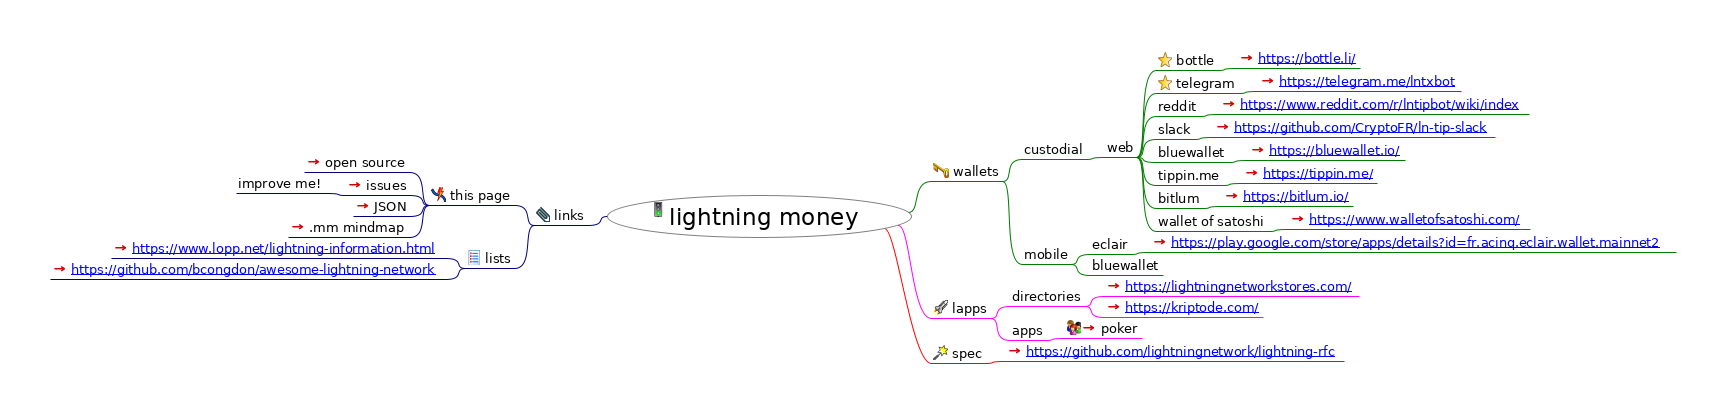
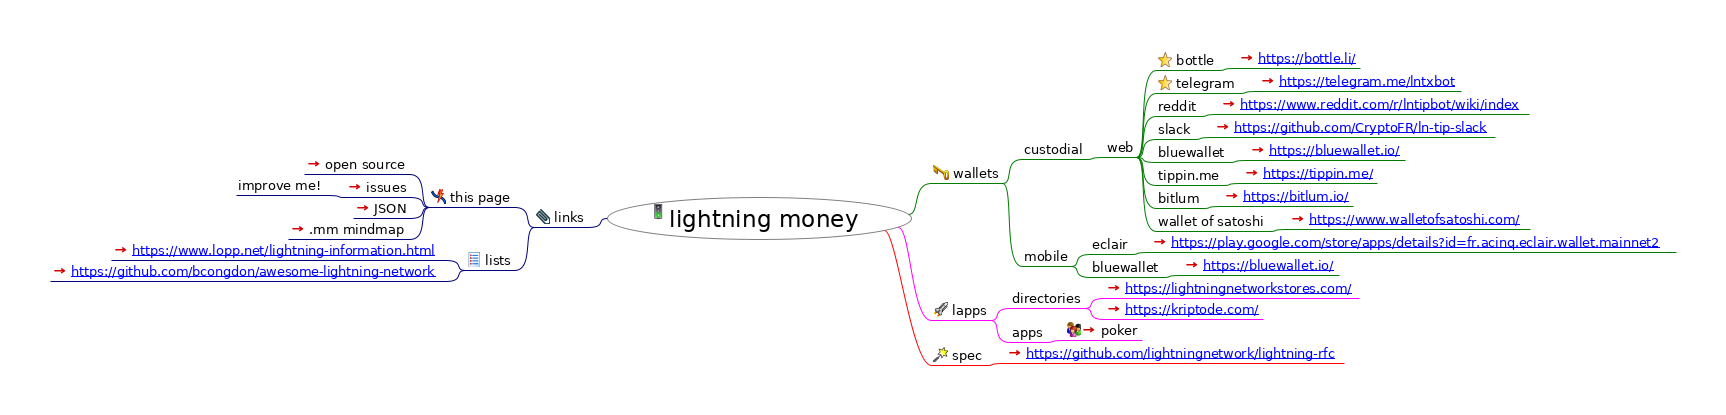
DEFAULT_MESSAGE

Changed region(s): [[0.522, 0.1162, 0.9826, 0.9007], [0.0307, 0.3777, 0.522, 0.6973], [0.522, 0.4068, 0.5834, 0.4649]]

diff --git a/index.html b/index.html
@@ -23,8 +23,8 @@
                    };
                };
           
-          --></script></head><body><h1>lightning money</h1><div style="width:96%;  padding:2%;  margin-bottom:10px;  border: 0px;  text-align:center;  vertical-align:center;"><img src="index.html_files/image.png" style="margin-bottom:10px; &#9;border: 0px; &#9;text-align:center; &#9;vertical-align:center;" alt="Imagemap" usemap="#fm_imagemap" /></div><map name="fm_imagemap" id="fm_imagemap"><area shape="rect" href="#FMID_1568754813FM" alt="lightning money" title="lightning money" coords="607,195,912,238" />
-<area shape="rect" href="#FMID_403237537FM" alt="wallets" title="wallets" coords="931,163,1003,181" />
+          --></script></head><body><h1>lightning money</h1><div style="width:96%;  padding:2%;  margin-bottom:10px;  border: 0px;  text-align:center;  vertical-align:center;"><img src="index.html_files/image.png" style="margin-bottom:10px; &#9;border: 0px; &#9;text-align:center; &#9;vertical-align:center;" alt="Imagemap" usemap="#fm_imagemap" /></div><map name="fm_imagemap" id="fm_imagemap"><area shape="rect" href="#FMID_1568754813FM" alt="lightning money" title="lightning money" coords="607,197,912,240" />
+<area shape="rect" href="#FMID_403237537FM" alt="wallets" title="wallets" coords="931,165,1003,183" />
 <area shape="rect" href="#FMID_713142011FM" alt="custodial" title="custodial" coords="1022,141,1086,159" />
 <area shape="rect" href="#FMID_1071283894FM" alt="web" title="web" coords="1105,139,1137,157" />
 <area shape="rect" href="#FMID_432921303FM" alt="bottle" title="bottle" coords="1156,52,1218,70" />
@@ -43,28 +43,29 @@
 <area shape="rect" href="#FMID_897640905FM" alt="https://bitlum.io/" title="https://bitlum.io/" coords="1222,188,1353,206" />
 <area shape="rect" href="#FMID_1242085439FM" alt="wallet of satoshi" title="wallet of satoshi" coords="1156,213,1269,231" />
 <area shape="rect" href="#FMID_307350684FM" alt="https://www.walletofsatoshi.com/" title="https://www.walletofsatoshi.com/" coords="1288,211,1530,229" />
-<area shape="rect" href="#FMID_129906959FM" alt="mobile" title="mobile" coords="1022,246,1071,264" />
+<area shape="rect" href="#FMID_129906959FM" alt="mobile" title="mobile" coords="1022,248,1071,266" />
 <area shape="rect" href="#FMID_1897401807FM" alt="eclair" title="eclair" coords="1090,236,1131,254" />
 <area shape="rect" href="#FMID_507622942FM" alt="https://play.google.com/store/apps/detai ..." title="https://play.google.com/store/apps/detai ..." coords="1150,234,1676,252" />
-<area shape="rect" href="#FMID_822394219FM" alt="bluewallet" title="bluewallet" coords="1090,257,1163,275" />
-<area shape="rect" href="#FMID_1438249466FM" alt="lapps" title="lapps" coords="931,300,991,318" />
-<area shape="rect" href="#FMID_1938254040FM" alt="directories" title="directories" coords="1010,288,1085,306" />
-<area shape="rect" href="#FMID_1622962411FM" alt="https://lightningnetworkstores.com/" title="https://lightningnetworkstores.com/" coords="1104,278,1359,296" />
-<area shape="rect" href="#FMID_759991484FM" alt="https://kriptode.com/" title="https://kriptode.com/" coords="1104,299,1263,317" />
-<area shape="rect" href="#FMID_1371138197FM" alt="apps" title="apps" coords="1010,322,1046,340" />
-<area shape="rect" href="#FMID_491528674FM" alt="poker" title="poker" coords="1065,320,1142,338" />
-<area shape="rect" href="#FMID_1721082161FM" alt="spec" title="spec" coords="931,345,986,363" />
-<area shape="rect" href="#FMID_1858353829FM" alt="https://github.com/lightningnetwork/ligh ..." title="https://github.com/lightningnetwork/ligh ..." coords="1005,343,1344,361" />
-<area shape="rect" href="#FMID_728396892FM" alt="links" title="links" coords="534,207,588,225" />
-<area shape="rect" href="#FMID_1704672214FM" alt="this page" title="this page" coords="429,187,515,205" />
-<area shape="rect" href="#FMID_1211678675FM" alt="open source" title="open source" coords="304,154,410,172" />
-<area shape="rect" href="#FMID_1677347904FM" alt="issues" title="issues" coords="345,177,410,195" />
-<area shape="rect" href="#FMID_824388782FM" alt="improve me!" title="improve me!" coords="236,175,326,193" />
-<area shape="rect" href="#FMID_903253757FM" alt="JSON" title="JSON" coords="353,198,410,216" />
-<area shape="rect" href="#FMID_963935095FM" alt=".mm mindmap" title=".mm mindmap" coords="288,219,410,237" />
-<area shape="rect" href="#FMID_1744026554FM" alt="lists" title="lists" coords="465,250,515,268" />
-<area shape="rect" href="#FMID_1897426799FM" alt="https://www.lopp.net/lightning-informati ..." title="https://www.lopp.net/lightning-informati ..." coords="111,240,446,258" />
-<area shape="rect" href="#FMID_1244510370FM" alt="https://github.com/bcongdon/awesome-ligh ..." title="https://github.com/bcongdon/awesome-ligh ..." coords="50,261,446,279" />
+<area shape="rect" href="#FMID_822394219FM" alt="bluewallet" title="bluewallet" coords="1090,259,1163,277" />
+<area shape="rect" href="#FMID_1017983509FM" alt="https://bluewallet.io/" title="https://bluewallet.io/" coords="1182,257,1339,275" />
+<area shape="rect" href="#FMID_1438249466FM" alt="lapps" title="lapps" coords="931,302,991,320" />
+<area shape="rect" href="#FMID_1938254040FM" alt="directories" title="directories" coords="1010,290,1085,308" />
+<area shape="rect" href="#FMID_1622962411FM" alt="https://lightningnetworkstores.com/" title="https://lightningnetworkstores.com/" coords="1104,280,1359,298" />
+<area shape="rect" href="#FMID_759991484FM" alt="https://kriptode.com/" title="https://kriptode.com/" coords="1104,301,1263,319" />
+<area shape="rect" href="#FMID_1371138197FM" alt="apps" title="apps" coords="1010,324,1046,342" />
+<area shape="rect" href="#FMID_491528674FM" alt="poker" title="poker" coords="1065,322,1142,340" />
+<area shape="rect" href="#FMID_1721082161FM" alt="spec" title="spec" coords="931,347,986,365" />
+<area shape="rect" href="#FMID_1858353829FM" alt="https://github.com/lightningnetwork/ligh ..." title="https://github.com/lightningnetwork/ligh ..." coords="1005,345,1344,363" />
+<area shape="rect" href="#FMID_728396892FM" alt="links" title="links" coords="534,209,588,227" />
+<area shape="rect" href="#FMID_1704672214FM" alt="this page" title="this page" coords="429,189,515,207" />
+<area shape="rect" href="#FMID_1211678675FM" alt="open source" title="open source" coords="304,156,410,174" />
+<area shape="rect" href="#FMID_1677347904FM" alt="issues" title="issues" coords="345,179,410,197" />
+<area shape="rect" href="#FMID_824388782FM" alt="improve me!" title="improve me!" coords="236,177,326,195" />
+<area shape="rect" href="#FMID_903253757FM" alt="JSON" title="JSON" coords="353,200,410,218" />
+<area shape="rect" href="#FMID_963935095FM" alt=".mm mindmap" title=".mm mindmap" coords="288,221,410,239" />
+<area shape="rect" href="#FMID_1744026554FM" alt="lists" title="lists" coords="465,252,515,270" />
+<area shape="rect" href="#FMID_1897426799FM" alt="https://www.lopp.net/lightning-informati ..." title="https://www.lopp.net/lightning-informati ..." coords="111,242,446,260" />
+<area shape="rect" href="#FMID_1244510370FM" alt="https://github.com/bcongdon/awesome-ligh ..." title="https://github.com/bcongdon/awesome-ligh ..." coords="50,263,446,281" />
 </map>
 
 <div class="node"><img src="index.html_files/hide.png" class="hideshow" alt="hide" onClick="toggle(&quot;N65543&quot;)" id="imgN65543" /><img src="index.html_files/icons/go.svg" alt="go" /> <a id="FMID_1568754813FM" /><div class="nodecontent" style="color:#000000;font-size:150%;">lightning money</div><div class="content" id="N65543"><div class="node"><img src="index.html_files/hide.png" class="hideshow" alt="hide" onClick="toggle(&quot;N66444&quot;)" id="imgN66444" /><img src="index.html_files/icons/password.svg" alt="password" /> <a id="FMID_403237537FM" /><div class="nodecontent" style="color:#000000;font-size:83%;">wallets</div><div class="content" id="N66444"><div class="node"><img src="index.html_files/hide.png" class="hideshow" alt="hide" onClick="toggle(&quot;N66485&quot;)" id="imgN66485" /><a id="FMID_713142011FM" /><div class="nodecontent" style="color:#000000;font-size:83%;">custodial</div><div class="content" id="N66485"><div class="node"><img src="index.html_files/hide.png" class="hideshow" alt="hide" onClick="toggle(&quot;N66520&quot;)" id="imgN66520" /><a id="FMID_1071283894FM" /><div class="nodecontent" style="color:#000000;font-size:83%;">web</div><div class="content" id="N66520"><div class="node"><img src="index.html_files/hide.png" class="hideshow" alt="hide" onClick="toggle(&quot;N66555&quot;)" id="imgN66555" /><img src="index.html_files/icons/bookmark.svg" alt="bookmark" /> <a id="FMID_432921303FM" /><div class="nodecontent" style="color:#000000;font-size:83%;">bottle</div><div class="content" id="N66555"><div class="node"><img src="index.html_files/leaf.png" class="hideshow" alt="leaf" /><a id="FMID_1723379621FM" /><div class="nodecontent" style="color:#000000;font-size:83%;"><a href="https://bottle.li/">
@@ -85,13 +86,15 @@
     <a http-equiv="content-type" content="text/html; charset=utf-8" href="https://www.walletofsatoshi.com/">https://www.walletofsatoshi.com/</a>
   </a> <a href="https://www.walletofsatoshi.com/"><img src="index.html_files/ilink.png" alt="User Link" style="border-width:0" /></a></div></div></div></div></div></div></div></div><div class="node"><img src="index.html_files/hide.png" class="hideshow" alt="hide" onClick="toggle(&quot;N67295&quot;)" id="imgN67295" /><a id="FMID_129906959FM" /><div class="nodecontent" style="color:#000000;font-size:83%;">mobile</div><div class="content" id="N67295"><div class="node"><img src="index.html_files/hide.png" class="hideshow" alt="hide" onClick="toggle(&quot;N67330&quot;)" id="imgN67330" /><a id="FMID_1897401807FM" /><div class="nodecontent" style="color:#000000;font-size:83%;">eclair</div><div class="content" id="N67330"><div class="node"><img src="index.html_files/leaf.png" class="hideshow" alt="leaf" /><a id="FMID_507622942FM" /><div class="nodecontent" style="color:#000000;font-size:83%;"><a href="https://play.google.com/store/apps/details?id=fr.acinq.eclair.wallet.mainnet2">
     <a http-equiv="content-type" content="text/html; charset=utf-8" href="https://play.google.com/store/apps/details?id=fr.acinq.eclair.wallet.mainnet2">https://play.google.com/store/apps/details?id=fr.acinq.eclair.wallet.mainnet2</a>
-  </a> <a href="https://play.google.com/store/apps/details?id=fr.acinq.eclair.wallet.mainnet2"><img src="index.html_files/ilink.png" alt="User Link" style="border-width:0" /></a></div></div></div></div><div class="node"><img src="index.html_files/leaf.png" class="hideshow" alt="leaf" /><a id="FMID_822394219FM" /><div class="nodecontent" style="color:#000000;font-size:83%;">bluewallet</div></div></div></div></div></div><div class="node"><img src="index.html_files/hide.png" class="hideshow" alt="hide" onClick="toggle(&quot;N67459&quot;)" id="imgN67459" /><img src="index.html_files/icons/launch.svg" alt="launch" /> <a id="FMID_1438249466FM" /><div class="nodecontent" style="color:#000000;font-size:83%;">lapps</div><div class="content" id="N67459"><div class="node"><img src="index.html_files/hide.png" class="hideshow" alt="hide" onClick="toggle(&quot;N67500&quot;)" id="imgN67500" /><a id="FMID_1938254040FM" /><div class="nodecontent" style="color:#000000;font-size:83%;">directories</div><div class="content" id="N67500"><div class="node"><img src="index.html_files/leaf.png" class="hideshow" alt="leaf" /><a id="FMID_1622962411FM" /><div class="nodecontent" style="color:#000000;font-size:83%;"><a href="https://lightningnetworkstores.com/">
+  </a> <a href="https://play.google.com/store/apps/details?id=fr.acinq.eclair.wallet.mainnet2"><img src="index.html_files/ilink.png" alt="User Link" style="border-width:0" /></a></div></div></div></div><div class="node"><img src="index.html_files/hide.png" class="hideshow" alt="hide" onClick="toggle(&quot;N67421&quot;)" id="imgN67421" /><a id="FMID_822394219FM" /><div class="nodecontent" style="color:#000000;font-size:83%;">bluewallet</div><div class="content" id="N67421"><div class="node"><img src="index.html_files/leaf.png" class="hideshow" alt="leaf" /><a id="FMID_1017983509FM" /><div class="nodecontent" style="color:#000000;font-size:83%;"><a href="https://bluewallet.io/">
+    <a http-equiv="content-type" content="text/html; charset=utf-8" href="https://bluewallet.io/">https://bluewallet.io/</a>
+  </a> <a href="https://bluewallet.io/"><img src="index.html_files/ilink.png" alt="User Link" style="border-width:0" /></a></div></div></div></div></div></div></div></div><div class="node"><img src="index.html_files/hide.png" class="hideshow" alt="hide" onClick="toggle(&quot;N67514&quot;)" id="imgN67514" /><img src="index.html_files/icons/launch.svg" alt="launch" /> <a id="FMID_1438249466FM" /><div class="nodecontent" style="color:#000000;font-size:83%;">lapps</div><div class="content" id="N67514"><div class="node"><img src="index.html_files/hide.png" class="hideshow" alt="hide" onClick="toggle(&quot;N67555&quot;)" id="imgN67555" /><a id="FMID_1938254040FM" /><div class="nodecontent" style="color:#000000;font-size:83%;">directories</div><div class="content" id="N67555"><div class="node"><img src="index.html_files/leaf.png" class="hideshow" alt="leaf" /><a id="FMID_1622962411FM" /><div class="nodecontent" style="color:#000000;font-size:83%;"><a href="https://lightningnetworkstores.com/">
     <a http-equiv="content-type" content="text/html; charset=utf-8" href="https://lightningnetworkstores.com/">https://lightningnetworkstores.com/</a>
   </a> <a href="https://lightningnetworkstores.com/"><img src="index.html_files/ilink.png" alt="User Link" style="border-width:0" /></a></div></div><div class="node"><img src="index.html_files/leaf.png" class="hideshow" alt="leaf" /><a id="FMID_759991484FM" /><div class="nodecontent" style="color:#000000;font-size:83%;"><a href="https://kriptode.com/">
     <a http-equiv="content-type" content="text/html; charset=utf-8" href="https://kriptode.com/">https://kriptode.com/</a>
-  </a> <a href="https://kriptode.com/"><img src="index.html_files/ilink.png" alt="User Link" style="border-width:0" /></a></div></div></div></div><div class="node"><img src="index.html_files/hide.png" class="hideshow" alt="hide" onClick="toggle(&quot;N67646&quot;)" id="imgN67646" /><a id="FMID_1371138197FM" /><div class="nodecontent" style="color:#000000;font-size:83%;">apps</div><div class="content" id="N67646"><div class="node"><img src="index.html_files/leaf.png" class="hideshow" alt="leaf" /><img src="index.html_files/icons/group.svg" alt="group" /> <a id="FMID_491528674FM" /><div class="nodecontent" style="color:#000000;font-size:83%;"><a href="https://lightning-poker.com/">poker</a> <a href="https://lightning-poker.com/"><img src="index.html_files/ilink.png" alt="User Link" style="border-width:0" /></a></div></div></div></div></div></div><div class="node"><img src="index.html_files/hide.png" class="hideshow" alt="hide" onClick="toggle(&quot;N67725&quot;)" id="imgN67725" /><img src="index.html_files/icons/wizard.svg" alt="wizard" /> <a id="FMID_1721082161FM" /><div class="nodecontent" style="color:#000000;font-size:83%;">spec</div><div class="content" id="N67725"><div class="node"><img src="index.html_files/leaf.png" class="hideshow" alt="leaf" /><a id="FMID_1858353829FM" /><div class="nodecontent" style="color:#000000;font-size:83%;"><a href="https://github.com/lightningnetwork/lightning-rfc">
+  </a> <a href="https://kriptode.com/"><img src="index.html_files/ilink.png" alt="User Link" style="border-width:0" /></a></div></div></div></div><div class="node"><img src="index.html_files/hide.png" class="hideshow" alt="hide" onClick="toggle(&quot;N67701&quot;)" id="imgN67701" /><a id="FMID_1371138197FM" /><div class="nodecontent" style="color:#000000;font-size:83%;">apps</div><div class="content" id="N67701"><div class="node"><img src="index.html_files/leaf.png" class="hideshow" alt="leaf" /><img src="index.html_files/icons/group.svg" alt="group" /> <a id="FMID_491528674FM" /><div class="nodecontent" style="color:#000000;font-size:83%;"><a href="https://lightning-poker.com/">poker</a> <a href="https://lightning-poker.com/"><img src="index.html_files/ilink.png" alt="User Link" style="border-width:0" /></a></div></div></div></div></div></div><div class="node"><img src="index.html_files/hide.png" class="hideshow" alt="hide" onClick="toggle(&quot;N67780&quot;)" id="imgN67780" /><img src="index.html_files/icons/wizard.svg" alt="wizard" /> <a id="FMID_1721082161FM" /><div class="nodecontent" style="color:#000000;font-size:83%;">spec</div><div class="content" id="N67780"><div class="node"><img src="index.html_files/leaf.png" class="hideshow" alt="leaf" /><a id="FMID_1858353829FM" /><div class="nodecontent" style="color:#000000;font-size:83%;"><a href="https://github.com/lightningnetwork/lightning-rfc">
     <a http-equiv="content-type" content="text/html; charset=utf-8" href="https://github.com/lightningnetwork/lightning-rfc">https://github.com/lightningnetwork/lightning-rfc</a>
-  </a> <a href="https://github.com/lightningnetwork/lightning-rfc"><img src="index.html_files/ilink.png" alt="User Link" style="border-width:0" /></a></div></div></div></div><div class="node"><img src="index.html_files/hide.png" class="hideshow" alt="hide" onClick="toggle(&quot;N67822&quot;)" id="imgN67822" /><img src="index.html_files/icons/attach.svg" alt="attach" /> <a id="FMID_728396892FM" /><div class="nodecontent" style="color:#000000;font-size:83%;">links</div><div class="content" id="N67822"><div class="node"><img src="index.html_files/hide.png" class="hideshow" alt="hide" onClick="toggle(&quot;N67863&quot;)" id="imgN67863" /><img src="index.html_files/icons/broken-line.svg" alt="broken-line" /> <a id="FMID_1704672214FM" /><div class="nodecontent" style="color:#000000;font-size:83%;">this page</div><div class="content" id="N67863"><div class="node"><img src="index.html_files/leaf.png" class="hideshow" alt="leaf" /><a id="FMID_1211678675FM" /><div class="nodecontent" style="color:#000000;font-size:83%;"><a href="https://github.com/solidpayorg/lightning.money/">open source</a> <a href="https://github.com/solidpayorg/lightning.money/"><img src="index.html_files/ilink.png" alt="User Link" style="border-width:0" /></a></div></div><div class="node"><img src="index.html_files/hide.png" class="hideshow" alt="hide" onClick="toggle(&quot;N67940&quot;)" id="imgN67940" /><a id="FMID_1677347904FM" /><div class="nodecontent" style="color:#000000;font-size:83%;"><a href="https://github.com/solidpayorg/lightning.money/issues">issues</a> <a href="https://github.com/solidpayorg/lightning.money/issues"><img src="index.html_files/ilink.png" alt="User Link" style="border-width:0" /></a></div><div class="content" id="N67940"><div class="node"><img src="index.html_files/leaf.png" class="hideshow" alt="leaf" /><a id="FMID_824388782FM" /><div class="nodecontent" style="color:#000000;font-size:83%;">improve me!</div></div></div></div><div class="node"><img src="index.html_files/leaf.png" class="hideshow" alt="leaf" /><a id="FMID_903253757FM" /><div class="nodecontent" style="color:#000000;font-size:83%;"><a href="index.json">JSON</a> <a href="index.json"><img src="index.html_files/ilink.png" alt="User Link" style="border-width:0" /></a></div></div><div class="node"><img src="index.html_files/leaf.png" class="hideshow" alt="leaf" /><a id="FMID_963935095FM" /><div class="nodecontent" style="color:#000000;font-size:83%;"><a href="index.html">.mm mindmap</a> <a href="index.html"><img src="index.html_files/ilink.png" alt="User Link" style="border-width:0" /></a></div></div></div></div><div class="node"><img src="index.html_files/hide.png" class="hideshow" alt="hide" onClick="toggle(&quot;N68088&quot;)" id="imgN68088" /><img src="index.html_files/icons/list.svg" alt="list" /> <a id="FMID_1744026554FM" /><div class="nodecontent" style="color:#000000;font-size:83%;">lists</div><div class="content" id="N68088"><div class="node"><img src="index.html_files/leaf.png" class="hideshow" alt="leaf" /><a id="FMID_1897426799FM" /><div class="nodecontent" style="color:#000000;font-size:83%;"><a href="https://www.lopp.net/lightning-information.html">
+  </a> <a href="https://github.com/lightningnetwork/lightning-rfc"><img src="index.html_files/ilink.png" alt="User Link" style="border-width:0" /></a></div></div></div></div><div class="node"><img src="index.html_files/hide.png" class="hideshow" alt="hide" onClick="toggle(&quot;N67877&quot;)" id="imgN67877" /><img src="index.html_files/icons/attach.svg" alt="attach" /> <a id="FMID_728396892FM" /><div class="nodecontent" style="color:#000000;font-size:83%;">links</div><div class="content" id="N67877"><div class="node"><img src="index.html_files/hide.png" class="hideshow" alt="hide" onClick="toggle(&quot;N67918&quot;)" id="imgN67918" /><img src="index.html_files/icons/broken-line.svg" alt="broken-line" /> <a id="FMID_1704672214FM" /><div class="nodecontent" style="color:#000000;font-size:83%;">this page</div><div class="content" id="N67918"><div class="node"><img src="index.html_files/leaf.png" class="hideshow" alt="leaf" /><a id="FMID_1211678675FM" /><div class="nodecontent" style="color:#000000;font-size:83%;"><a href="https://github.com/solidpayorg/lightning.money/">open source</a> <a href="https://github.com/solidpayorg/lightning.money/"><img src="index.html_files/ilink.png" alt="User Link" style="border-width:0" /></a></div></div><div class="node"><img src="index.html_files/hide.png" class="hideshow" alt="hide" onClick="toggle(&quot;N67995&quot;)" id="imgN67995" /><a id="FMID_1677347904FM" /><div class="nodecontent" style="color:#000000;font-size:83%;"><a href="https://github.com/solidpayorg/lightning.money/issues">issues</a> <a href="https://github.com/solidpayorg/lightning.money/issues"><img src="index.html_files/ilink.png" alt="User Link" style="border-width:0" /></a></div><div class="content" id="N67995"><div class="node"><img src="index.html_files/leaf.png" class="hideshow" alt="leaf" /><a id="FMID_824388782FM" /><div class="nodecontent" style="color:#000000;font-size:83%;">improve me!</div></div></div></div><div class="node"><img src="index.html_files/leaf.png" class="hideshow" alt="leaf" /><a id="FMID_903253757FM" /><div class="nodecontent" style="color:#000000;font-size:83%;"><a href="index.json">JSON</a> <a href="index.json"><img src="index.html_files/ilink.png" alt="User Link" style="border-width:0" /></a></div></div><div class="node"><img src="index.html_files/leaf.png" class="hideshow" alt="leaf" /><a id="FMID_963935095FM" /><div class="nodecontent" style="color:#000000;font-size:83%;"><a href="index.html">.mm mindmap</a> <a href="index.html"><img src="index.html_files/ilink.png" alt="User Link" style="border-width:0" /></a></div></div></div></div><div class="node"><img src="index.html_files/hide.png" class="hideshow" alt="hide" onClick="toggle(&quot;N68143&quot;)" id="imgN68143" /><img src="index.html_files/icons/list.svg" alt="list" /> <a id="FMID_1744026554FM" /><div class="nodecontent" style="color:#000000;font-size:83%;">lists</div><div class="content" id="N68143"><div class="node"><img src="index.html_files/leaf.png" class="hideshow" alt="leaf" /><a id="FMID_1897426799FM" /><div class="nodecontent" style="color:#000000;font-size:83%;"><a href="https://www.lopp.net/lightning-information.html">
     <a http-equiv="content-type" content="text/html; charset=utf-8" href="https://www.lopp.net/lightning-information.html">https://www.lopp.net/lightning-information.html</a>
   </a> <a href="https://www.lopp.net/lightning-information.html"><img src="index.html_files/ilink.png" alt="User Link" style="border-width:0" /></a></div></div><div class="node"><img src="index.html_files/leaf.png" class="hideshow" alt="leaf" /><a id="FMID_1244510370FM" /><div class="nodecontent" style="color:#000000;font-size:83%;"><a href="https://github.com/bcongdon/awesome-lightning-network">
     <a http-equiv="content-type" content="text/html; charset=utf-8" href="https://github.com/bcongdon/awesome-lightning-network">https://github.com/bcongdon/awesome-lightning-network</a>

diff --git a/index.mm b/index.mm
@@ -201,7 +201,20 @@
 </richcontent>
 </node>
 </node>
-<node TEXT="bluewallet" ID="ID_822394219" CREATED="1569865347180" MODIFIED="1569865350013"/>
+<node TEXT="bluewallet" ID="ID_822394219" CREATED="1569865347180" MODIFIED="1569865350013">
+<node ID="ID_1017983509" CREATED="1569940196555" MODIFIED="1569940196555" LINK="https://bluewallet.io/"><richcontent TYPE="NODE">
+
+<html>
+  <head>
+    
+  </head>
+  <body>
+    <a http-equiv="content-type" content="text/html; charset=utf-8" href="https://bluewallet.io/">https://bluewallet.io/</a> 
+  </body>
+</html>
+</richcontent>
+</node>
+</node>
 </node>
 </node>
 <node TEXT="lapps" POSITION="right" ID="ID_1438249466" CREATED="1569959255579" MODIFIED="1569959277863">
